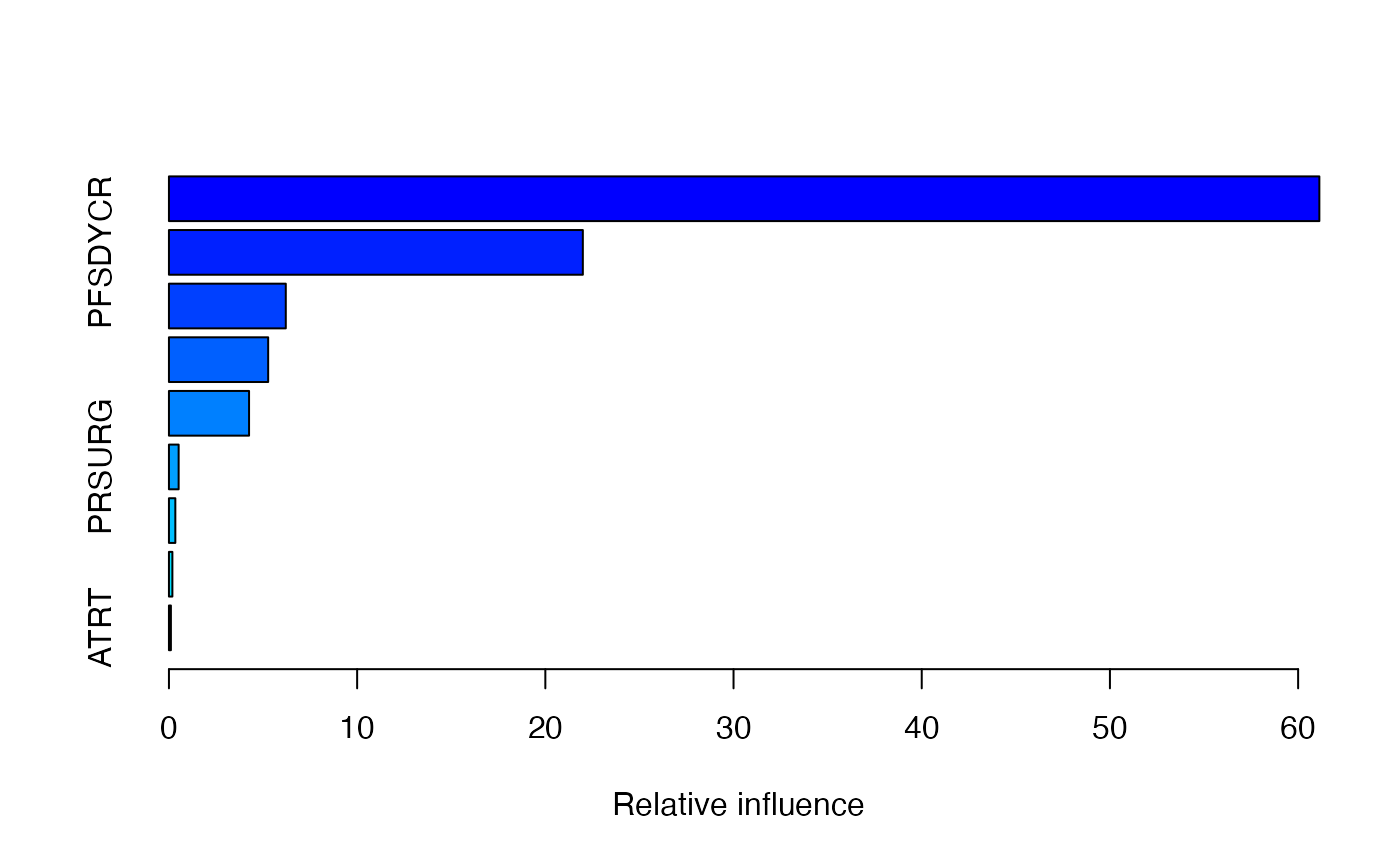
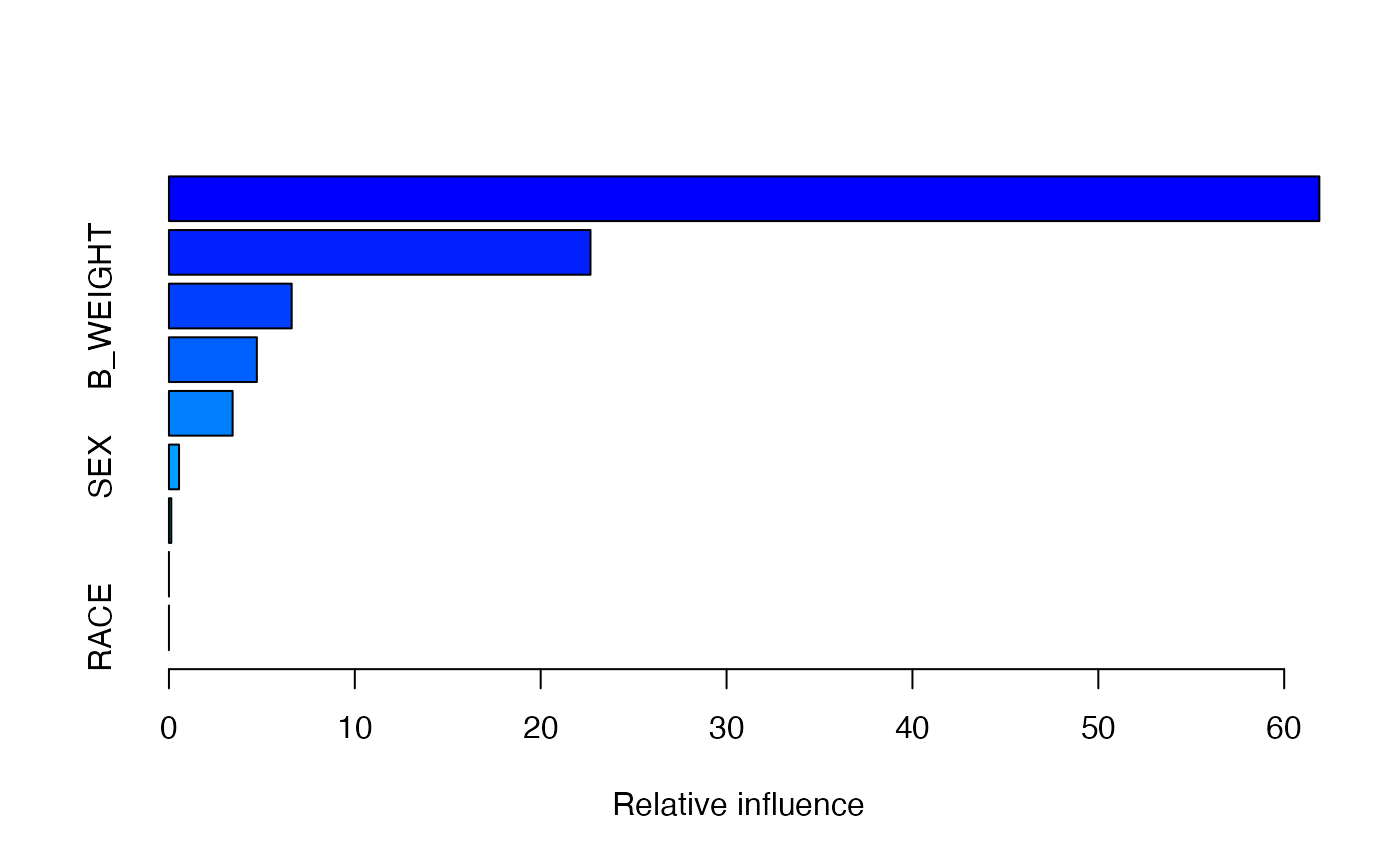
rebuilt vignette

diff --git a/docs/articles/bis620final.html b/docs/articles/bis620final.html
@@ -213,23 +213,23 @@ testing and return a summary table.</p>
 <code class="sourceCode R"><span><span class="co"># create a contingency table of death vs. marker and use chi-squared test to test whether marker is prognostic to death outcome</span></span>
 <span><span class="co"># use only observations with marker "Mutant" or "Wild-type"</span></span>
 <span><span class="fu"><a href="../reference/chi_square_test.html">chi_square_test</a></span><span class="op">(</span><span class="va">demo</span><span class="op">)</span></span>
-<span><span class="co">#&gt; &lt;div id="cnbkawzhqm" style="padding-left:0px;padding-right:0px;padding-top:10px;padding-bottom:10px;overflow-x:auto;overflow-y:auto;width:auto;height:auto;"&gt;</span></span>
-<span><span class="co">#&gt;   &lt;style&gt;#cnbkawzhqm table {</span></span>
+<span><span class="co">#&gt; &lt;div id="ioccqyletj" style="padding-left:0px;padding-right:0px;padding-top:10px;padding-bottom:10px;overflow-x:auto;overflow-y:auto;width:auto;height:auto;"&gt;</span></span>
+<span><span class="co">#&gt;   &lt;style&gt;#ioccqyletj table {</span></span>
 <span><span class="co">#&gt;   font-family: system-ui, 'Segoe UI', Roboto, Helvetica, Arial, sans-serif, 'Apple Color Emoji', 'Segoe UI Emoji', 'Segoe UI Symbol', 'Noto Color Emoji';</span></span>
 <span><span class="co">#&gt;   -webkit-font-smoothing: antialiased;</span></span>
 <span><span class="co">#&gt;   -moz-osx-font-smoothing: grayscale;</span></span>
 <span><span class="co">#&gt; }</span></span>
 <span><span class="co">#&gt; </span></span>
-<span><span class="co">#&gt; #cnbkawzhqm thead, #cnbkawzhqm tbody, #cnbkawzhqm tfoot, #cnbkawzhqm tr, #cnbkawzhqm td, #cnbkawzhqm th {</span></span>
+<span><span class="co">#&gt; #ioccqyletj thead, #ioccqyletj tbody, #ioccqyletj tfoot, #ioccqyletj tr, #ioccqyletj td, #ioccqyletj th {</span></span>
 <span><span class="co">#&gt;   border-style: none;</span></span>
 <span><span class="co">#&gt; }</span></span>
 <span><span class="co">#&gt; </span></span>
-<span><span class="co">#&gt; #cnbkawzhqm p {</span></span>
+<span><span class="co">#&gt; #ioccqyletj p {</span></span>
 <span><span class="co">#&gt;   margin: 0;</span></span>
 <span><span class="co">#&gt;   padding: 0;</span></span>
 <span><span class="co">#&gt; }</span></span>
 <span><span class="co">#&gt; </span></span>
-<span><span class="co">#&gt; #cnbkawzhqm .gt_table {</span></span>
+<span><span class="co">#&gt; #ioccqyletj .gt_table {</span></span>
 <span><span class="co">#&gt;   display: table;</span></span>
 <span><span class="co">#&gt;   border-collapse: collapse;</span></span>
 <span><span class="co">#&gt;   line-height: normal;</span></span>
@@ -255,12 +255,12 @@ testing and return a summary table.</p>
 <span><span class="co">#&gt;   border-left-color: #D3D3D3;</span></span>
 <span><span class="co">#&gt; }</span></span>
 <span><span class="co">#&gt; </span></span>
-<span><span class="co">#&gt; #cnbkawzhqm .gt_caption {</span></span>
+<span><span class="co">#&gt; #ioccqyletj .gt_caption {</span></span>
 <span><span class="co">#&gt;   padding-top: 4px;</span></span>
 <span><span class="co">#&gt;   padding-bottom: 4px;</span></span>
 <span><span class="co">#&gt; }</span></span>
 <span><span class="co">#&gt; </span></span>
-<span><span class="co">#&gt; #cnbkawzhqm .gt_title {</span></span>
+<span><span class="co">#&gt; #ioccqyletj .gt_title {</span></span>
 <span><span class="co">#&gt;   color: #333333;</span></span>
 <span><span class="co">#&gt;   font-size: 125%;</span></span>
 <span><span class="co">#&gt;   font-weight: initial;</span></span>
@@ -272,7 +272,7 @@ testing and return a summary table.</p>
 <span><span class="co">#&gt;   border-bottom-width: 0;</span></span>
 <span><span class="co">#&gt; }</span></span>
 <span><span class="co">#&gt; </span></span>
-<span><span class="co">#&gt; #cnbkawzhqm .gt_subtitle {</span></span>
+<span><span class="co">#&gt; #ioccqyletj .gt_subtitle {</span></span>
 <span><span class="co">#&gt;   color: #333333;</span></span>
 <span><span class="co">#&gt;   font-size: 85%;</span></span>
 <span><span class="co">#&gt;   font-weight: initial;</span></span>
@@ -284,7 +284,7 @@ testing and return a summary table.</p>
 <span><span class="co">#&gt;   border-top-width: 0;</span></span>
 <span><span class="co">#&gt; }</span></span>
 <span><span class="co">#&gt; </span></span>
-<span><span class="co">#&gt; #cnbkawzhqm .gt_heading {</span></span>
+<span><span class="co">#&gt; #ioccqyletj .gt_heading {</span></span>
 <span><span class="co">#&gt;   background-color: #FFFFFF;</span></span>
 <span><span class="co">#&gt;   text-align: center;</span></span>
 <span><span class="co">#&gt;   border-bottom-color: #FFFFFF;</span></span>
@@ -296,13 +296,13 @@ testing and return a summary table.</p>
 <span><span class="co">#&gt;   border-right-color: #D3D3D3;</span></span>
 <span><span class="co">#&gt; }</span></span>
 <span><span class="co">#&gt; </span></span>
-<span><span class="co">#&gt; #cnbkawzhqm .gt_bottom_border {</span></span>
+<span><span class="co">#&gt; #ioccqyletj .gt_bottom_border {</span></span>
 <span><span class="co">#&gt;   border-bottom-style: solid;</span></span>
 <span><span class="co">#&gt;   border-bottom-width: 2px;</span></span>
 <span><span class="co">#&gt;   border-bottom-color: #D3D3D3;</span></span>
 <span><span class="co">#&gt; }</span></span>
 <span><span class="co">#&gt; </span></span>
-<span><span class="co">#&gt; #cnbkawzhqm .gt_col_headings {</span></span>
+<span><span class="co">#&gt; #ioccqyletj .gt_col_headings {</span></span>
 <span><span class="co">#&gt;   border-top-style: solid;</span></span>
 <span><span class="co">#&gt;   border-top-width: 2px;</span></span>
 <span><span class="co">#&gt;   border-top-color: #D3D3D3;</span></span>
@@ -317,7 +317,7 @@ testing and return a summary table.</p>
 <span><span class="co">#&gt;   border-right-color: #D3D3D3;</span></span>
 <span><span class="co">#&gt; }</span></span>
 <span><span class="co">#&gt; </span></span>
-<span><span class="co">#&gt; #cnbkawzhqm .gt_col_heading {</span></span>
+<span><span class="co">#&gt; #ioccqyletj .gt_col_heading {</span></span>
 <span><span class="co">#&gt;   color: #333333;</span></span>
 <span><span class="co">#&gt;   background-color: #FFFFFF;</span></span>
 <span><span class="co">#&gt;   font-size: 100%;</span></span>
@@ -337,7 +337,7 @@ testing and return a summary table.</p>
 <span><span class="co">#&gt;   overflow-x: hidden;</span></span>
 <span><span class="co">#&gt; }</span></span>
 <span><span class="co">#&gt; </span></span>
-<span><span class="co">#&gt; #cnbkawzhqm .gt_column_spanner_outer {</span></span>
+<span><span class="co">#&gt; #ioccqyletj .gt_column_spanner_outer {</span></span>
 <span><span class="co">#&gt;   color: #333333;</span></span>
 <span><span class="co">#&gt;   background-color: #FFFFFF;</span></span>
 <span><span class="co">#&gt;   font-size: 100%;</span></span>
@@ -349,15 +349,15 @@ testing and return a summary table.</p>
 <span><span class="co">#&gt;   padding-right: 4px;</span></span>
 <span><span class="co">#&gt; }</span></span>
 <span><span class="co">#&gt; </span></span>
-<span><span class="co">#&gt; #cnbkawzhqm .gt_column_spanner_outer:first-child {</span></span>
+<span><span class="co">#&gt; #ioccqyletj .gt_column_spanner_outer:first-child {</span></span>
 <span><span class="co">#&gt;   padding-left: 0;</span></span>
 <span><span class="co">#&gt; }</span></span>
 <span><span class="co">#&gt; </span></span>
-<span><span class="co">#&gt; #cnbkawzhqm .gt_column_spanner_outer:last-child {</span></span>
+<span><span class="co">#&gt; #ioccqyletj .gt_column_spanner_outer:last-child {</span></span>
 <span><span class="co">#&gt;   padding-right: 0;</span></span>
 <span><span class="co">#&gt; }</span></span>
 <span><span class="co">#&gt; </span></span>
-<span><span class="co">#&gt; #cnbkawzhqm .gt_column_spanner {</span></span>
+<span><span class="co">#&gt; #ioccqyletj .gt_column_spanner {</span></span>
 <span><span class="co">#&gt;   border-bottom-style: solid;</span></span>
 <span><span class="co">#&gt;   border-bottom-width: 2px;</span></span>
 <span><span class="co">#&gt;   border-bottom-color: #D3D3D3;</span></span>
@@ -369,11 +369,11 @@ testing and return a summary table.</p>
 <span><span class="co">#&gt;   width: 100%;</span></span>
 <span><span class="co">#&gt; }</span></span>
 <span><span class="co">#&gt; </span></span>
-<span><span class="co">#&gt; #cnbkawzhqm .gt_spanner_row {</span></span>
+<span><span class="co">#&gt; #ioccqyletj .gt_spanner_row {</span></span>
 <span><span class="co">#&gt;   border-bottom-style: hidden;</span></span>
 <span><span class="co">#&gt; }</span></span>
 <span><span class="co">#&gt; </span></span>
-<span><span class="co">#&gt; #cnbkawzhqm .gt_group_heading {</span></span>
+<span><span class="co">#&gt; #ioccqyletj .gt_group_heading {</span></span>
 <span><span class="co">#&gt;   padding-top: 8px;</span></span>
 <span><span class="co">#&gt;   padding-bottom: 8px;</span></span>
 <span><span class="co">#&gt;   padding-left: 5px;</span></span>
@@ -399,7 +399,7 @@ testing and return a summary table.</p>
 <span><span class="co">#&gt;   text-align: left;</span></span>
 <span><span class="co">#&gt; }</span></span>
 <span><span class="co">#&gt; </span></span>
-<span><span class="co">#&gt; #cnbkawzhqm .gt_empty_group_heading {</span></span>
+<span><span class="co">#&gt; #ioccqyletj .gt_empty_group_heading {</span></span>
 <span><span class="co">#&gt;   padding: 0.5px;</span></span>
 <span><span class="co">#&gt;   color: #333333;</span></span>
 <span><span class="co">#&gt;   background-color: #FFFFFF;</span></span>
@@ -414,15 +414,15 @@ testing and return a summary table.</p>
 <span><span class="co">#&gt;   vertical-align: middle;</span></span>
 <span><span class="co">#&gt; }</span></span>
 <span><span class="co">#&gt; </span></span>
-<span><span class="co">#&gt; #cnbkawzhqm .gt_from_md &gt; :first-child {</span></span>
+<span><span class="co">#&gt; #ioccqyletj .gt_from_md &gt; :first-child {</span></span>
 <span><span class="co">#&gt;   margin-top: 0;</span></span>
 <span><span class="co">#&gt; }</span></span>
 <span><span class="co">#&gt; </span></span>
-<span><span class="co">#&gt; #cnbkawzhqm .gt_from_md &gt; :last-child {</span></span>
+<span><span class="co">#&gt; #ioccqyletj .gt_from_md &gt; :last-child {</span></span>
 <span><span class="co">#&gt;   margin-bottom: 0;</span></span>
 <span><span class="co">#&gt; }</span></span>
 <span><span class="co">#&gt; </span></span>
-<span><span class="co">#&gt; #cnbkawzhqm .gt_row {</span></span>
+<span><span class="co">#&gt; #ioccqyletj .gt_row {</span></span>
 <span><span class="co">#&gt;   padding-top: 8px;</span></span>
 <span><span class="co">#&gt;   padding-bottom: 8px;</span></span>
 <span><span class="co">#&gt;   padding-left: 5px;</span></span>
@@ -441,7 +441,7 @@ testing and return a summary table.</p>
 <span><span class="co">#&gt;   overflow-x: hidden;</span></span>
 <span><span class="co">#&gt; }</span></span>
 <span><span class="co">#&gt; </span></span>
-<span><span class="co">#&gt; #cnbkawzhqm .gt_stub {</span></span>
+<span><span class="co">#&gt; #ioccqyletj .gt_stub {</span></span>
 <span><span class="co">#&gt;   color: #333333;</span></span>
 <span><span class="co">#&gt;   background-color: #FFFFFF;</span></span>
 <span><span class="co">#&gt;   font-size: 100%;</span></span>
@@ -454,7 +454,7 @@ testing and return a summary table.</p>
 <span><span class="co">#&gt;   padding-right: 5px;</span></span>
 <span><span class="co">#&gt; }</span></span>
 <span><span class="co">#&gt; </span></span>
-<span><span class="co">#&gt; #cnbkawzhqm .gt_stub_row_group {</span></span>
+<span><span class="co">#&gt; #ioccqyletj .gt_stub_row_group {</span></span>
 <span><span class="co">#&gt;   color: #333333;</span></span>
 <span><span class="co">#&gt;   background-color: #FFFFFF;</span></span>
 <span><span class="co">#&gt;   font-size: 100%;</span></span>
@@ -468,15 +468,15 @@ testing and return a summary table.</p>
 <span><span class="co">#&gt;   vertical-align: top;</span></span>
 <span><span class="co">#&gt; }</span></span>
 <span><span class="co">#&gt; </span></span>
-<span><span class="co">#&gt; #cnbkawzhqm .gt_row_group_first td {</span></span>
+<span><span class="co">#&gt; #ioccqyletj .gt_row_group_first td {</span></span>
 <span><span class="co">#&gt;   border-top-width: 2px;</span></span>
 <span><span class="co">#&gt; }</span></span>
 <span><span class="co">#&gt; </span></span>
-<span><span class="co">#&gt; #cnbkawzhqm .gt_row_group_first th {</span></span>
+<span><span class="co">#&gt; #ioccqyletj .gt_row_group_first th {</span></span>
 <span><span class="co">#&gt;   border-top-width: 2px;</span></span>
 <span><span class="co">#&gt; }</span></span>
 <span><span class="co">#&gt; </span></span>
-<span><span class="co">#&gt; #cnbkawzhqm .gt_summary_row {</span></span>
+<span><span class="co">#&gt; #ioccqyletj .gt_summary_row {</span></span>
 <span><span class="co">#&gt;   color: #333333;</span></span>
 <span><span class="co">#&gt;   background-color: #FFFFFF;</span></span>
 <span><span class="co">#&gt;   text-transform: inherit;</span></span>
@@ -486,16 +486,16 @@ testing and return a summary table.</p>
 <span><span class="co">#&gt;   padding-right: 5px;</span></span>
 <span><span class="co">#&gt; }</span></span>
 <span><span class="co">#&gt; </span></span>
-<span><span class="co">#&gt; #cnbkawzhqm .gt_first_summary_row {</span></span>
+<span><span class="co">#&gt; #ioccqyletj .gt_first_summary_row {</span></span>
 <span><span class="co">#&gt;   border-top-style: solid;</span></span>
 <span><span class="co">#&gt;   border-top-color: #D3D3D3;</span></span>
 <span><span class="co">#&gt; }</span></span>
 <span><span class="co">#&gt; </span></span>
-<span><span class="co">#&gt; #cnbkawzhqm .gt_first_summary_row.thick {</span></span>
+<span><span class="co">#&gt; #ioccqyletj .gt_first_summary_row.thick {</span></span>
 <span><span class="co">#&gt;   border-top-width: 2px;</span></span>
 <span><span class="co">#&gt; }</span></span>
 <span><span class="co">#&gt; </span></span>
-<span><span class="co">#&gt; #cnbkawzhqm .gt_last_summary_row {</span></span>
+<span><span class="co">#&gt; #ioccqyletj .gt_last_summary_row {</span></span>
 <span><span class="co">#&gt;   padding-top: 8px;</span></span>
 <span><span class="co">#&gt;   padding-bottom: 8px;</span></span>
 <span><span class="co">#&gt;   padding-left: 5px;</span></span>
@@ -505,7 +505,7 @@ testing and return a summary table.</p>
 <span><span class="co">#&gt;   border-bottom-color: #D3D3D3;</span></span>
 <span><span class="co">#&gt; }</span></span>
 <span><span class="co">#&gt; </span></span>
-<span><span class="co">#&gt; #cnbkawzhqm .gt_grand_summary_row {</span></span>
+<span><span class="co">#&gt; #ioccqyletj .gt_grand_summary_row {</span></span>
 <span><span class="co">#&gt;   color: #333333;</span></span>
 <span><span class="co">#&gt;   background-color: #FFFFFF;</span></span>
 <span><span class="co">#&gt;   text-transform: inherit;</span></span>
@@ -515,7 +515,7 @@ testing and return a summary table.</p>
 <span><span class="co">#&gt;   padding-right: 5px;</span></span>
 <span><span class="co">#&gt; }</span></span>
 <span><span class="co">#&gt; </span></span>
-<span><span class="co">#&gt; #cnbkawzhqm .gt_first_grand_summary_row {</span></span>
+<span><span class="co">#&gt; #ioccqyletj .gt_first_grand_summary_row {</span></span>
 <span><span class="co">#&gt;   padding-top: 8px;</span></span>
 <span><span class="co">#&gt;   padding-bottom: 8px;</span></span>
 <span><span class="co">#&gt;   padding-left: 5px;</span></span>
@@ -525,7 +525,7 @@ testing and return a summary table.</p>
 <span><span class="co">#&gt;   border-top-color: #D3D3D3;</span></span>
 <span><span class="co">#&gt; }</span></span>
 <span><span class="co">#&gt; </span></span>
-<span><span class="co">#&gt; #cnbkawzhqm .gt_last_grand_summary_row_top {</span></span>
+<span><span class="co">#&gt; #ioccqyletj .gt_last_grand_summary_row_top {</span></span>
 <span><span class="co">#&gt;   padding-top: 8px;</span></span>
 <span><span class="co">#&gt;   padding-bottom: 8px;</span></span>
 <span><span class="co">#&gt;   padding-left: 5px;</span></span>
@@ -535,11 +535,11 @@ testing and return a summary table.</p>
 <span><span class="co">#&gt;   border-bottom-color: #D3D3D3;</span></span>
 <span><span class="co">#&gt; }</span></span>
 <span><span class="co">#&gt; </span></span>
-<span><span class="co">#&gt; #cnbkawzhqm .gt_striped {</span></span>
+<span><span class="co">#&gt; #ioccqyletj .gt_striped {</span></span>
 <span><span class="co">#&gt;   background-color: rgba(128, 128, 128, 0.05);</span></span>
 <span><span class="co">#&gt; }</span></span>
 <span><span class="co">#&gt; </span></span>
-<span><span class="co">#&gt; #cnbkawzhqm .gt_table_body {</span></span>
+<span><span class="co">#&gt; #ioccqyletj .gt_table_body {</span></span>
 <span><span class="co">#&gt;   border-top-style: solid;</span></span>
 <span><span class="co">#&gt;   border-top-width: 2px;</span></span>
 <span><span class="co">#&gt;   border-top-color: #D3D3D3;</span></span>
@@ -548,7 +548,7 @@ testing and return a summary table.</p>
 <span><span class="co">#&gt;   border-bottom-color: #D3D3D3;</span></span>
 <span><span class="co">#&gt; }</span></span>
 <span><span class="co">#&gt; </span></span>
-<span><span class="co">#&gt; #cnbkawzhqm .gt_footnotes {</span></span>
+<span><span class="co">#&gt; #ioccqyletj .gt_footnotes {</span></span>
 <span><span class="co">#&gt;   color: #333333;</span></span>
 <span><span class="co">#&gt;   background-color: #FFFFFF;</span></span>
 <span><span class="co">#&gt;   border-bottom-style: none;</span></span>
@@ -562,7 +562,7 @@ testing and return a summary table.</p>
 <span><span class="co">#&gt;   border-right-color: #D3D3D3;</span></span>
 <span><span class="co">#&gt; }</span></span>
 <span><span class="co">#&gt; </span></span>
-<span><span class="co">#&gt; #cnbkawzhqm .gt_footnote {</span></span>
+<span><span class="co">#&gt; #ioccqyletj .gt_footnote {</span></span>
 <span><span class="co">#&gt;   margin: 0px;</span></span>
 <span><span class="co">#&gt;   font-size: 90%;</span></span>
 <span><span class="co">#&gt;   padding-top: 4px;</span></span>
@@ -571,7 +571,7 @@ testing and return a summary table.</p>
 <span><span class="co">#&gt;   padding-right: 5px;</span></span>
 <span><span class="co">#&gt; }</span></span>
 <span><span class="co">#&gt; </span></span>
-<span><span class="co">#&gt; #cnbkawzhqm .gt_sourcenotes {</span></span>
+<span><span class="co">#&gt; #ioccqyletj .gt_sourcenotes {</span></span>
 <span><span class="co">#&gt;   color: #333333;</span></span>
 <span><span class="co">#&gt;   background-color: #FFFFFF;</span></span>
 <span><span class="co">#&gt;   border-bottom-style: none;</span></span>
@@ -585,7 +585,7 @@ testing and return a summary table.</p>
 <span><span class="co">#&gt;   border-right-color: #D3D3D3;</span></span>
 <span><span class="co">#&gt; }</span></span>
 <span><span class="co">#&gt; </span></span>
-<span><span class="co">#&gt; #cnbkawzhqm .gt_sourcenote {</span></span>
+<span><span class="co">#&gt; #ioccqyletj .gt_sourcenote {</span></span>
 <span><span class="co">#&gt;   font-size: 90%;</span></span>
 <span><span class="co">#&gt;   padding-top: 4px;</span></span>
 <span><span class="co">#&gt;   padding-bottom: 4px;</span></span>
@@ -593,63 +593,63 @@ testing and return a summary table.</p>
 <span><span class="co">#&gt;   padding-right: 5px;</span></span>
 <span><span class="co">#&gt; }</span></span>
 <span><span class="co">#&gt; </span></span>
-<span><span class="co">#&gt; #cnbkawzhqm .gt_left {</span></span>
+<span><span class="co">#&gt; #ioccqyletj .gt_left {</span></span>
 <span><span class="co">#&gt;   text-align: left;</span></span>
 <span><span class="co">#&gt; }</span></span>
 <span><span class="co">#&gt; </span></span>
-<span><span class="co">#&gt; #cnbkawzhqm .gt_center {</span></span>
+<span><span class="co">#&gt; #ioccqyletj .gt_center {</span></span>
 <span><span class="co">#&gt;   text-align: center;</span></span>
 <span><span class="co">#&gt; }</span></span>
 <span><span class="co">#&gt; </span></span>
-<span><span class="co">#&gt; #cnbkawzhqm .gt_right {</span></span>
+<span><span class="co">#&gt; #ioccqyletj .gt_right {</span></span>
 <span><span class="co">#&gt;   text-align: right;</span></span>
 <span><span class="co">#&gt;   font-variant-numeric: tabular-nums;</span></span>
 <span><span class="co">#&gt; }</span></span>
 <span><span class="co">#&gt; </span></span>
-<span><span class="co">#&gt; #cnbkawzhqm .gt_font_normal {</span></span>
+<span><span class="co">#&gt; #ioccqyletj .gt_font_normal {</span></span>
 <span><span class="co">#&gt;   font-weight: normal;</span></span>
 <span><span class="co">#&gt; }</span></span>
 <span><span class="co">#&gt; </span></span>
-<span><span class="co">#&gt; #cnbkawzhqm .gt_font_bold {</span></span>
+<span><span class="co">#&gt; #ioccqyletj .gt_font_bold {</span></span>
 <span><span class="co">#&gt;   font-weight: bold;</span></span>
 <span><span class="co">#&gt; }</span></span>
 <span><span class="co">#&gt; </span></span>
-<span><span class="co">#&gt; #cnbkawzhqm .gt_font_italic {</span></span>
+<span><span class="co">#&gt; #ioccqyletj .gt_font_italic {</span></span>
 <span><span class="co">#&gt;   font-style: italic;</span></span>
 <span><span class="co">#&gt; }</span></span>
 <span><span class="co">#&gt; </span></span>
-<span><span class="co">#&gt; #cnbkawzhqm .gt_super {</span></span>
+<span><span class="co">#&gt; #ioccqyletj .gt_super {</span></span>
 <span><span class="co">#&gt;   font-size: 65%;</span></span>
 <span><span class="co">#&gt; }</span></span>
 <span><span class="co">#&gt; </span></span>
-<span><span class="co">#&gt; #cnbkawzhqm .gt_footnote_marks {</span></span>
+<span><span class="co">#&gt; #ioccqyletj .gt_footnote_marks {</span></span>
 <span><span class="co">#&gt;   font-size: 75%;</span></span>
 <span><span class="co">#&gt;   vertical-align: 0.4em;</span></span>
 <span><span class="co">#&gt;   position: initial;</span></span>
 <span><span class="co">#&gt; }</span></span>
 <span><span class="co">#&gt; </span></span>
-<span><span class="co">#&gt; #cnbkawzhqm .gt_asterisk {</span></span>
+<span><span class="co">#&gt; #ioccqyletj .gt_asterisk {</span></span>
 <span><span class="co">#&gt;   font-size: 100%;</span></span>
 <span><span class="co">#&gt;   vertical-align: 0;</span></span>
 <span><span class="co">#&gt; }</span></span>
 <span><span class="co">#&gt; </span></span>
-<span><span class="co">#&gt; #cnbkawzhqm .gt_indent_1 {</span></span>
+<span><span class="co">#&gt; #ioccqyletj .gt_indent_1 {</span></span>
 <span><span class="co">#&gt;   text-indent: 5px;</span></span>
 <span><span class="co">#&gt; }</span></span>
 <span><span class="co">#&gt; </span></span>
-<span><span class="co">#&gt; #cnbkawzhqm .gt_indent_2 {</span></span>
+<span><span class="co">#&gt; #ioccqyletj .gt_indent_2 {</span></span>
 <span><span class="co">#&gt;   text-indent: 10px;</span></span>
 <span><span class="co">#&gt; }</span></span>
 <span><span class="co">#&gt; </span></span>
-<span><span class="co">#&gt; #cnbkawzhqm .gt_indent_3 {</span></span>
+<span><span class="co">#&gt; #ioccqyletj .gt_indent_3 {</span></span>
 <span><span class="co">#&gt;   text-indent: 15px;</span></span>
 <span><span class="co">#&gt; }</span></span>
 <span><span class="co">#&gt; </span></span>
-<span><span class="co">#&gt; #cnbkawzhqm .gt_indent_4 {</span></span>
+<span><span class="co">#&gt; #ioccqyletj .gt_indent_4 {</span></span>
 <span><span class="co">#&gt;   text-indent: 20px;</span></span>
 <span><span class="co">#&gt; }</span></span>
 <span><span class="co">#&gt; </span></span>
-<span><span class="co">#&gt; #cnbkawzhqm .gt_indent_5 {</span></span>
+<span><span class="co">#&gt; #ioccqyletj .gt_indent_5 {</span></span>
 <span><span class="co">#&gt;   text-indent: 25px;</span></span>
 <span><span class="co">#&gt; }</span></span>
 <span><span class="co">#&gt; &lt;/style&gt;</span></span>
@@ -842,15 +842,15 @@ the importance of variables will be plotted.</p>
 <span><span class="co">#&gt; CV: 5</span></span></code></pre></div>
 <p><img src="bis620final_files/figure-html/unnamed-chunk-9-1.png" width="700"></p>
 <pre><code><span><span class="co">#&gt;               var    rel.inf</span></span>
-<span><span class="co">#&gt; AGE           AGE 61.1281662</span></span>
-<span><span class="co">#&gt; PFSDYCR   PFSDYCR 21.9925617</span></span>
-<span><span class="co">#&gt; B_WEIGHT B_WEIGHT  6.2085576</span></span>
-<span><span class="co">#&gt; B_HEIGHT B_HEIGHT  5.2721104</span></span>
-<span><span class="co">#&gt; marker     marker  4.2570362</span></span>
-<span><span class="co">#&gt; PRSURG     PRSURG  0.5155105</span></span>
-<span><span class="co">#&gt; RACE         RACE  0.3394752</span></span>
-<span><span class="co">#&gt; SEX           SEX  0.1828125</span></span>
-<span><span class="co">#&gt; ATRT         ATRT  0.1037696</span></span></code></pre>
+<span><span class="co">#&gt; AGE           AGE 61.8922043</span></span>
+<span><span class="co">#&gt; PFSDYCR   PFSDYCR 22.6793577</span></span>
+<span><span class="co">#&gt; B_WEIGHT B_WEIGHT  6.6037711</span></span>
+<span><span class="co">#&gt; B_HEIGHT B_HEIGHT  4.7287679</span></span>
+<span><span class="co">#&gt; marker     marker  3.4260930</span></span>
+<span><span class="co">#&gt; SEX           SEX  0.5438817</span></span>
+<span><span class="co">#&gt; PRSURG     PRSURG  0.1259242</span></span>
+<span><span class="co">#&gt; ATRT         ATRT  0.0000000</span></span>
+<span><span class="co">#&gt; RACE         RACE  0.0000000</span></span></code></pre>
 </div>
 <div class="section level2">
 <h2 id="interpretation-and-conclusion">Interpretation and Conclusion<a class="anchor" aria-label="anchor" href="#interpretation-and-conclusion"></a>
